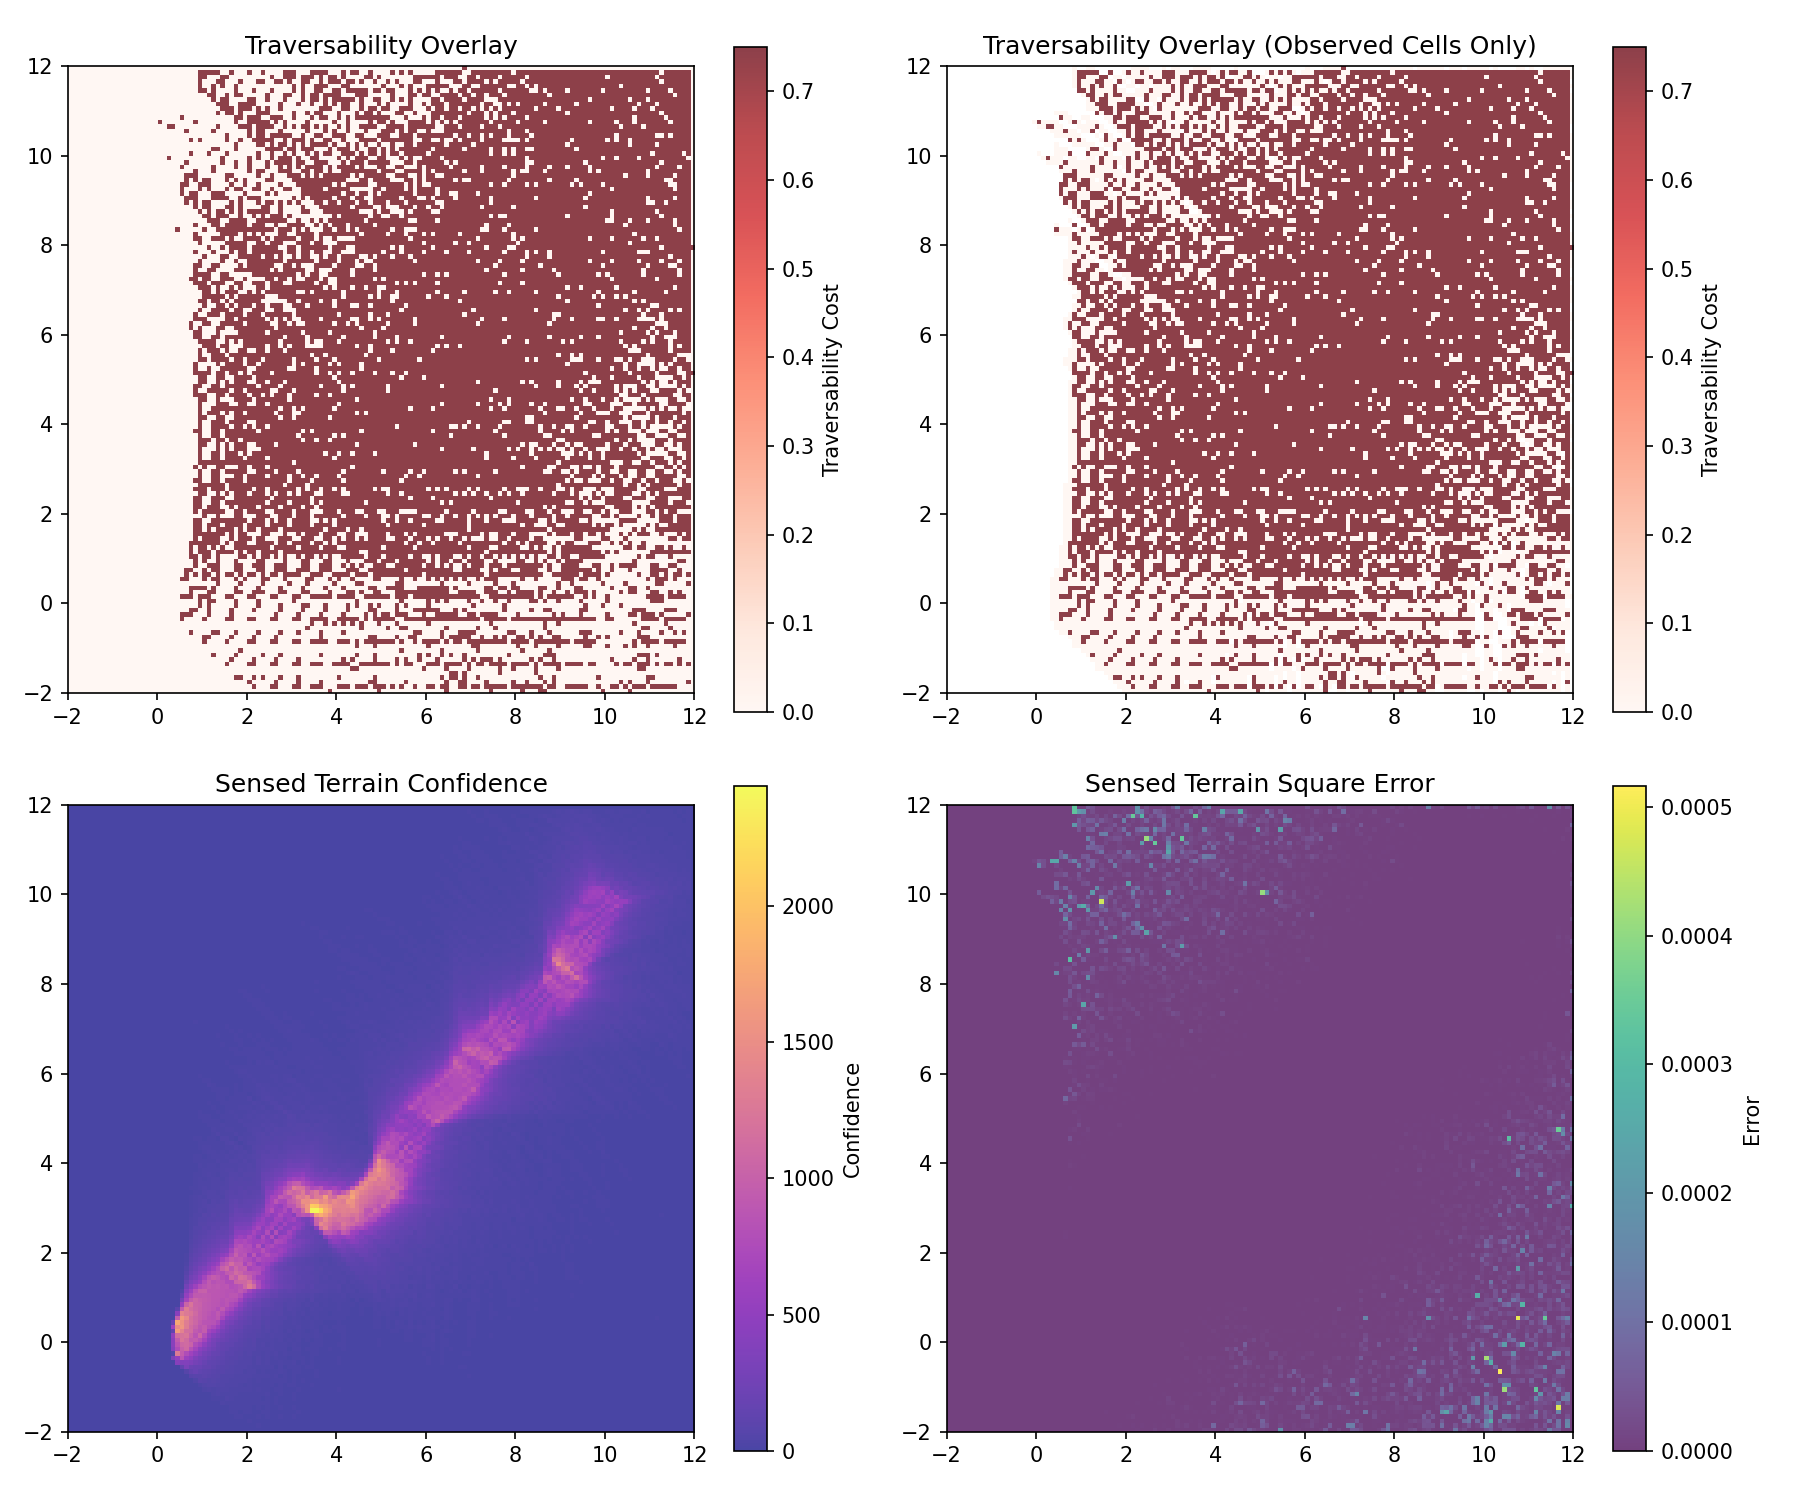
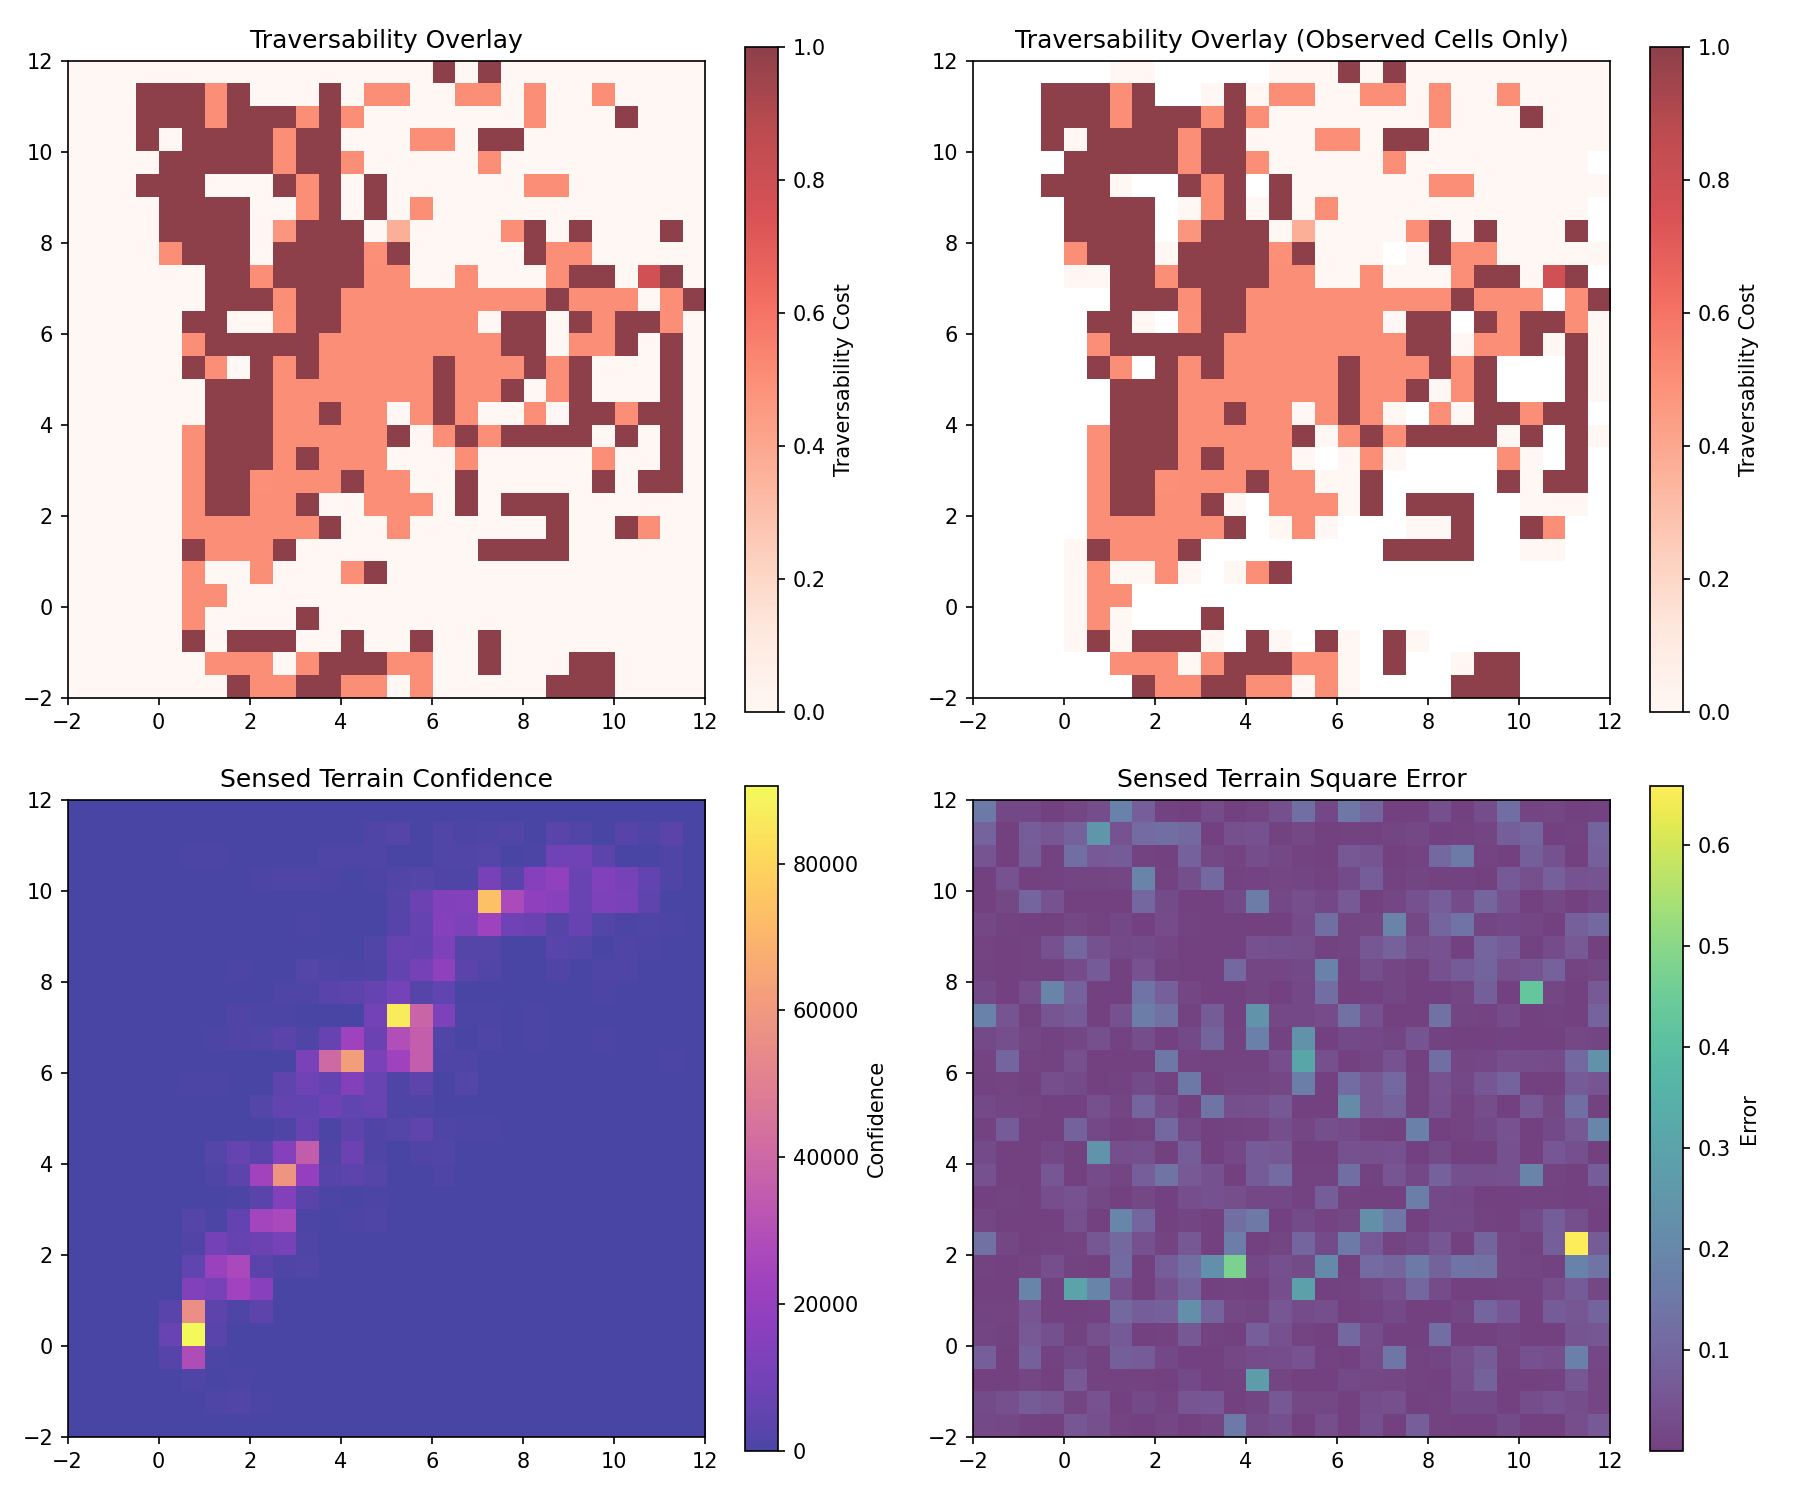
im vizzing everywhere

diff --git a/src/dynProbMPPI_test.py b/src/dynProbMPPI_test.py
@@ -30,12 +30,12 @@ for i in range(0,7):
     )
 
 # Add static circular obstacles
-"""env.add_obstacle(
+env.add_obstacle(
     Obstacle(position=[5.0, 5.0], 
              radius=2.0,
              velocity=[0.0, 0.0],
              mode=ObstacleMode.STATIC)
-)"""
+)
 
 #print("Environment Obstacles: ")
 #for obs in env.obstacles:
@@ -140,8 +140,8 @@ waypoint_selector = WaypointSelector(
     grid_resolution=0.5,
     grid_half_size=6,
     goal_weight=25.0,
-    obstacle_weight=50.0,
-    terrain_weight=5.0,
+    obstacle_weight=30.0,
+    terrain_weight=20.0,
     heading_weight=1.0,
     d_safe=config.d_safe
 )

diff --git a/environments/dynamicEnv_probabilistic.py b/environments/dynamicEnv_probabilistic.py
@@ -183,7 +183,7 @@ class ProbabilisticEnv:
         self.obstacles: List[Obstacle] = []
 
         self.terrain = None  # Placeholder for future terrain-aware behavior
-        self.dx = 0.5  # Terrain grid resolution in x direction
+        self.dx = 0.05  # Terrain grid resolution in x direction
         self.dy = self.dx # Terrain grid resolution in y direction
 
     def add_obstacle(self, obstacle: Obstacle) -> None:
